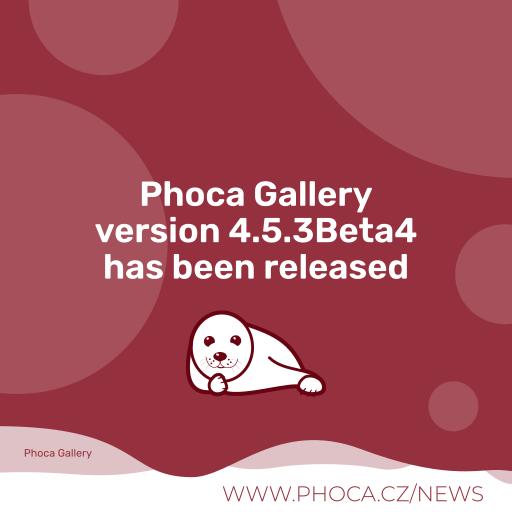
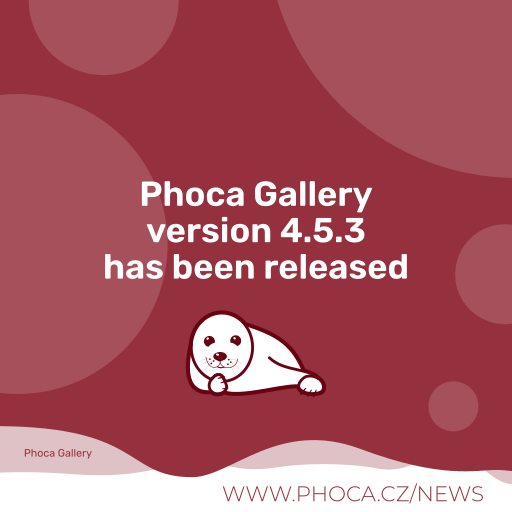
4.5.3

Changed region(s): [[0.1875, 0.4062, 0.8125, 0.5]]

diff --git a/README.MD b/README.MD
@@ -146,7 +146,7 @@ Phoca Gallery is an efficient image gallery extension for Joomla! CMS.
 
 ## Version (Joomla! 4.x)
 
-4.5.3Beta4
+4.5.3
 
 
 
